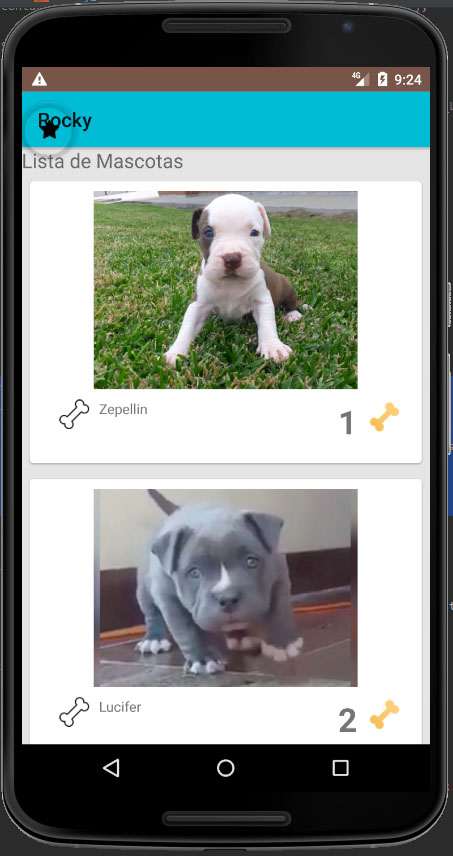
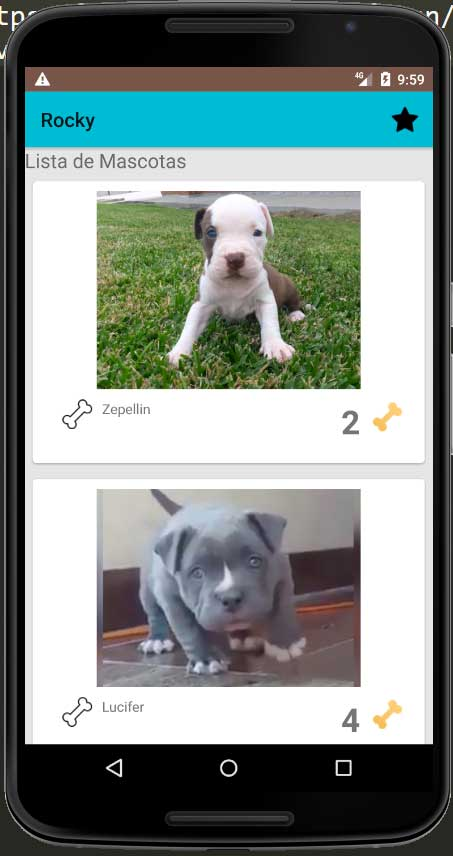
se corrige appbar

diff --git a/app/src/main/java/com/dalda/rocky/MainActivity.java b/app/src/main/java/com/dalda/rocky/MainActivity.java
@@ -9,6 +9,8 @@ import androidx.swiperefreshlayout.widget.SwipeRefreshLayout;
 import android.content.Intent;
 import android.os.Bundle;
 import android.util.Log;
+import android.view.Menu;
+import android.view.MenuItem;
 import android.view.View;
 import android.widget.Adapter;
 import android.widget.ArrayAdapter;
@@ -39,8 +41,6 @@ public class MainActivity extends AppCompatActivity {
         Toolbar miActionBar = (Toolbar) findViewById(R.id.miActionBar);
         setSupportActionBar(miActionBar);
 
-        agregarFAB();
-
         listamascotas = (RecyclerView) findViewById(R.id.rvMascotas);
         LinearLayoutManager llmmascotas = new LinearLayoutManager(this);
         llmmascotas.setOrientation(LinearLayoutManager.VERTICAL);
@@ -68,28 +68,32 @@ public class MainActivity extends AppCompatActivity {
     }
     public void iniciarListaMascotas(){
         mascotas = new ArrayList<Mascota>();
-        mascotas.add(new Mascota("Zepellin", 0, R.drawable.mascota1));
-        mascotas.add(new Mascota("Lucifer", 0, R.drawable.mascota2));
-        mascotas.add(new Mascota("Rocky", 0, R.drawable.mascota3));
-        mascotas.add(new Mascota("Yeico", 0, R.drawable.mascota4));
-        mascotas.add(new Mascota("Duran", 0, R.drawable.mascota5));
+        mascotas.add(new Mascota("Zepellin", 2, R.drawable.mascota1));
+        mascotas.add(new Mascota("Lucifer", 4, R.drawable.mascota2));
+        mascotas.add(new Mascota("Rocky", 5, R.drawable.mascota3));
+        mascotas.add(new Mascota("Yeico", 1, R.drawable.mascota4));
+        mascotas.add(new Mascota("Duran", 3, R.drawable.mascota5));
     }
+
+    @Override
+    public boolean onCreateOptionsMenu(Menu menu) {
+        getMenuInflater().inflate(R.menu.menu, menu);
+        return super.onCreateOptionsMenu(menu);
+    }
+
+    @Override
+    public boolean onOptionsItemSelected(MenuItem item) {
+        Intent intent = new Intent(MainActivity.this, ListaFavoritos.class);
+        intent.putExtra("mymascotas", mascotas);
+        startActivity(intent);
+        finish();
+        return super.onOptionsItemSelected(item);
+    }
+
     public void refrescandoContenido(){
         String[] planetas = getResources().getStringArray(R.array.planetas);
         lstMilista.setAdapter(new ArrayAdapter<>(this, android.R.layout.simple_list_item_1, planetas));
         sfiMiIndicadorRefresh.setRefreshing(false);
     }
 
-    public void agregarFAB(){
-        FloatingActionButton fab = findViewById(R.id.fab);
-        fab.setOnClickListener(new View.OnClickListener() {
-            @Override
-            public void onClick(View view) {
-            Intent intent = new Intent(MainActivity.this, ListaFavoritos.class);
-            intent.putExtra("mymascotas", mascotas);
-            startActivity(intent);
-            finish();
-            }
-        });
-    }
 }

diff --git a/app/src/main/java/com/dalda/rocky/DetalleMascota.java b/app/src/main/java/com/dalda/rocky/DetalleMascota.java
@@ -14,6 +14,9 @@ import android.widget.Toast;
 import androidx.appcompat.app.AppCompatActivity;
 import androidx.core.app.ActivityCompat;
 
+import com.google.android.material.floatingactionbutton.FloatingActionButton;
+import com.google.android.material.snackbar.Snackbar;
+
 public class DetalleMascota extends AppCompatActivity {
     TextView tvNombre;
     TextView tvTelefono;
@@ -23,6 +26,9 @@ public class DetalleMascota extends AppCompatActivity {
     public void onCreate(Bundle savedInstanceState, PersistableBundle persistentState) {
         super.onCreate(savedInstanceState, persistentState);
         setContentView(R.layout.mascota_detalle);
+
+        agregarFAB();
+
        /* Toast.makeText(this, "estamos comenzando esta vista", Toast.LENGTH_LONG).show();
 
         Intent intent = getIntent();
@@ -66,5 +72,14 @@ public class DetalleMascota extends AppCompatActivity {
         emailIntent.putExtra(Intent.EXTRA_EMAIL, email);
         emailIntent.setType("message/rfc822");
         startActivity(Intent.createChooser(emailIntent, "Email "));
+    }
+    public void agregarFAB(){
+        FloatingActionButton fab = findViewById(R.id.fab);
+        fab.setOnClickListener(new View.OnClickListener() {
+            @Override
+            public void onClick(View view) {
+                Snackbar.make(findViewById(android.R.id.content),"diste click al boton flotante",Snackbar.LENGTH_SHORT).show();
+            }
+        });
     }
 }

diff --git a/app/src/main/java/com/dalda/rocky/MascotaAdapter.java b/app/src/main/java/com/dalda/rocky/MascotaAdapter.java
@@ -37,6 +37,7 @@ public class MascotaAdapter extends RecyclerView.Adapter<MascotaAdapter.MascotaV
         final Mascota mascotao = mascotas.get(position);
         holder.imgFoto.setImageResource(mascotao.getFoto());
         holder.tvNombreCV.setText(mascotao.getNombre());
+        holder.tvRating.setText(mascotao.getRating() + "");
         holder.btnLike.setOnClickListener(new View.OnClickListener() {
             @Override
             public void onClick(View view) {
